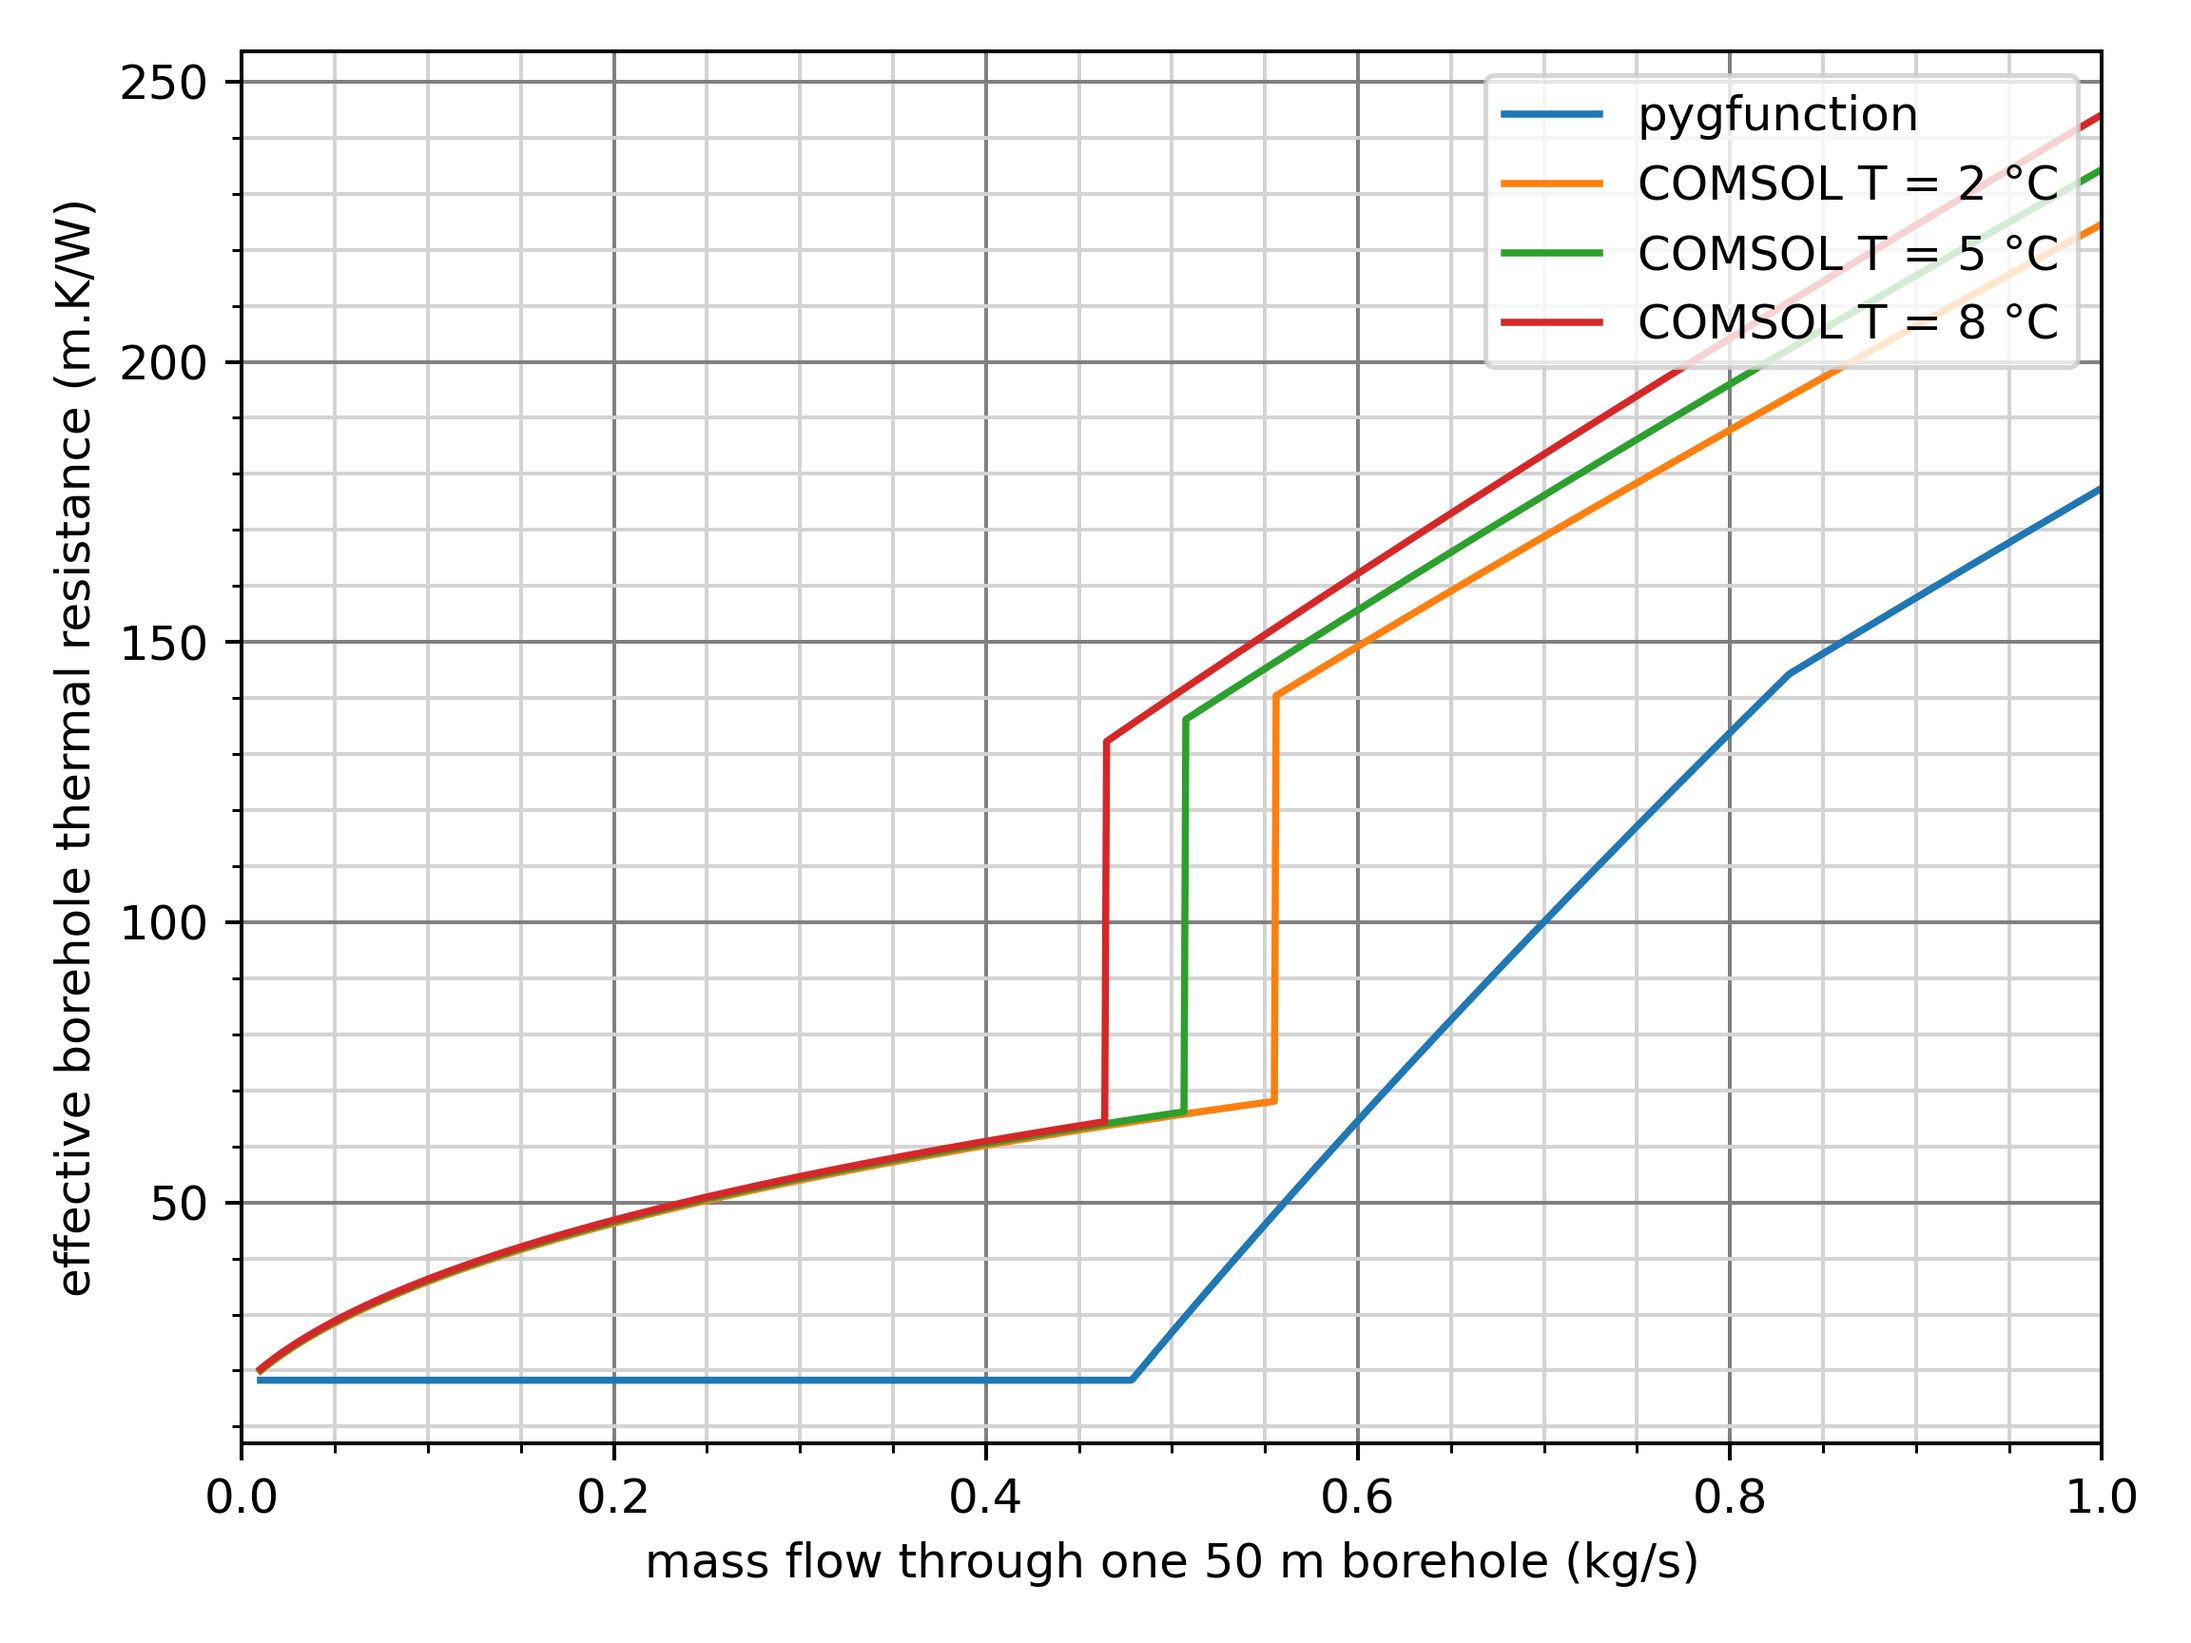
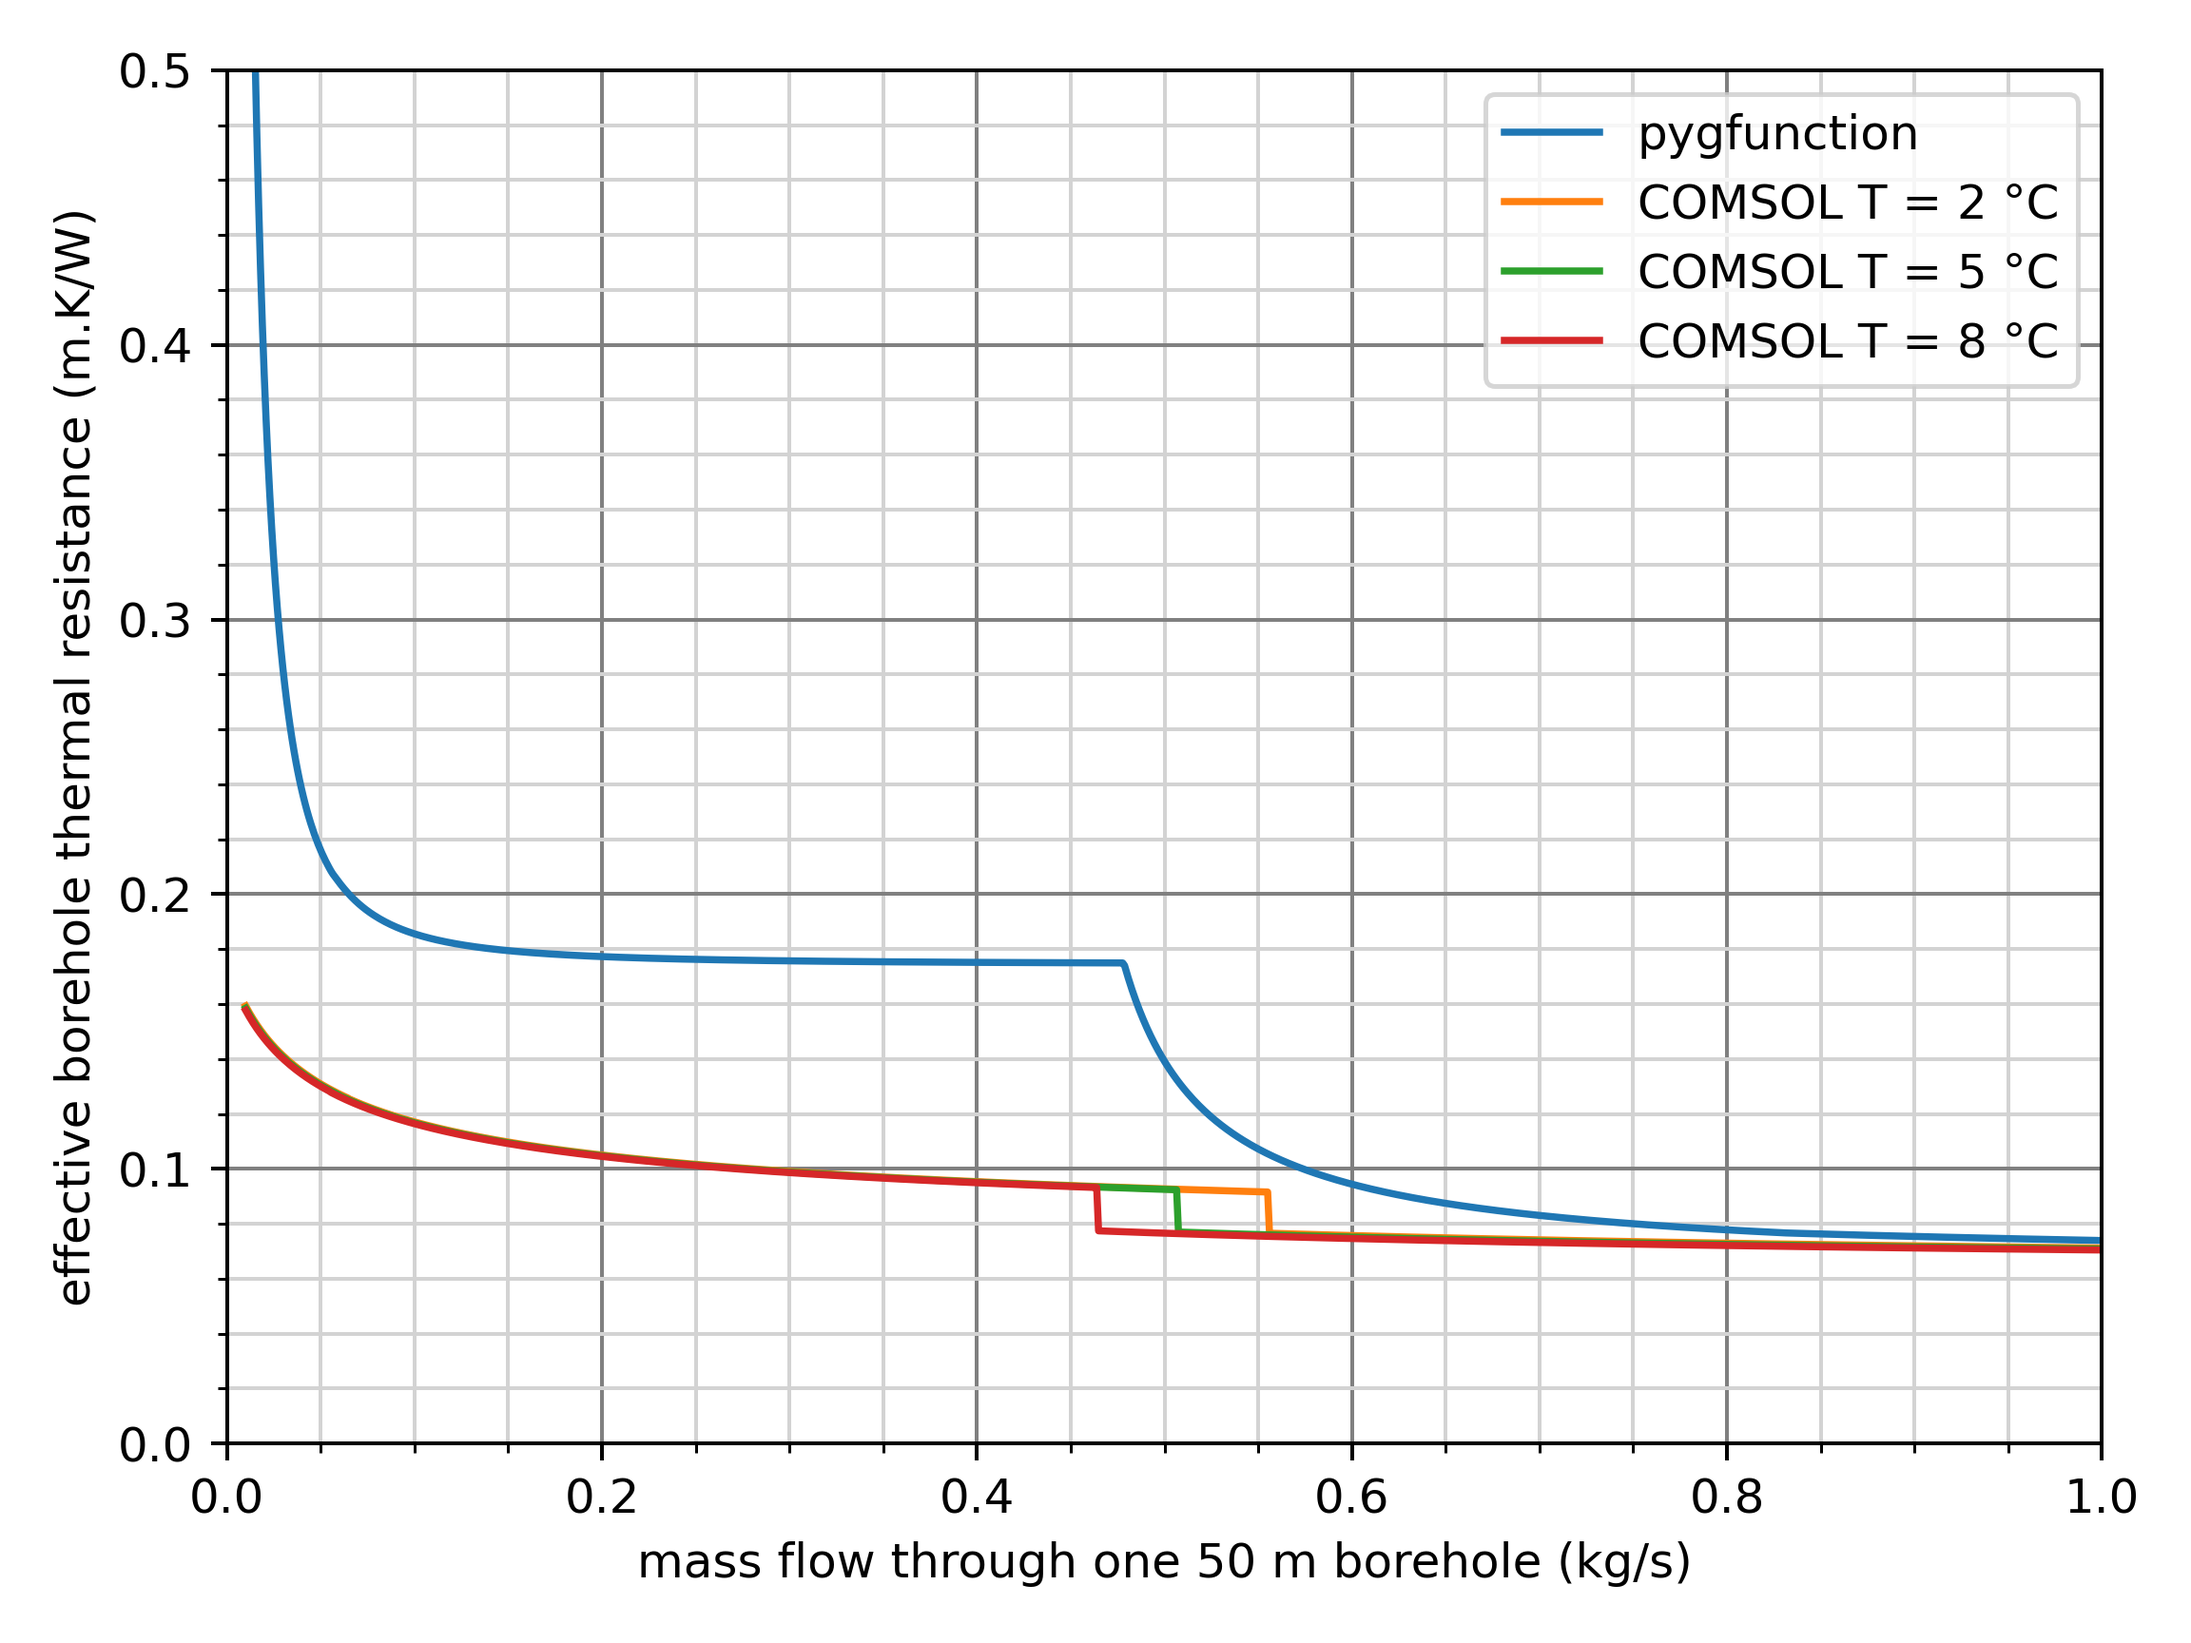
investigate thermal resistance

Changed region(s): [[0.0, 0.0312, 0.9688, 0.9688], [0.7812, 0.9062, 0.8125, 0.9375]]

diff --git a/HSE data/pipe_thermal_resistance.py b/HSE data/pipe_thermal_resistance.py
@@ -72,7 +72,7 @@ def R_b_pyg(m_flow_borehole):
     R_b = pipe.effective_borehole_thermal_resistance(
         m_flow_borehole, fluid.cp)
 
-    return h_f_ann_inner
+    return R_b
 R_b_pyg_vec = np.vectorize(R_b_pyg)
 
 def R_b_comsol(m_flow_borehole, T_f=3.5+273.15):
@@ -122,8 +122,8 @@ def R_b_comsol(m_flow_borehole, T_f=3.5+273.15):
     R_mid_pipe = log(DO_mid/DI_mid)/(2*pi*k_mid)			#  0.082459 s³·K/(kg·m) # Conduction through the mid-pipe wall
     R_outer_pipe = log(DO_out/DI_out)/(2*pi*k_pipe)			#  0.026595 s³·K/(kg·m) # Outer pipe wall conduction
     z_top = 0			# [m] 0 m # top surface at z=0; soil goes downward
-    x_loc = 0.7			# [m] 0.7 m # 
-    y_loc = 0.7			# [m] 0.7 m # 
+    x_loc = 0.7			# [m] 0.7 m #
+    y_loc = 0.7			# [m] 0.7 m #
     L_Grout = 41			# [m] 41 m # Grout length
     x_loc_1 = .7			# [m] 0.7 m # Loc for new pipes
     y_loc_1 = .7			# [m] 0.7 m # Loc for new pipes
@@ -158,7 +158,7 @@ def R_b_comsol(m_flow_borehole, T_f=3.5+273.15):
     R_inner_path = R_in_conv + R_in_pipe + R_mid_gap + R_mid_pipe + R_ann_inner_conv
     R_b = (1/(1/R_inner_path + 1/R_ann_path)) + R_outer_pipe + R_grout
 
-    return h_ann
+    return R_b
 R_b_comsol_vec = np.vectorize(R_b_comsol)
 
 
